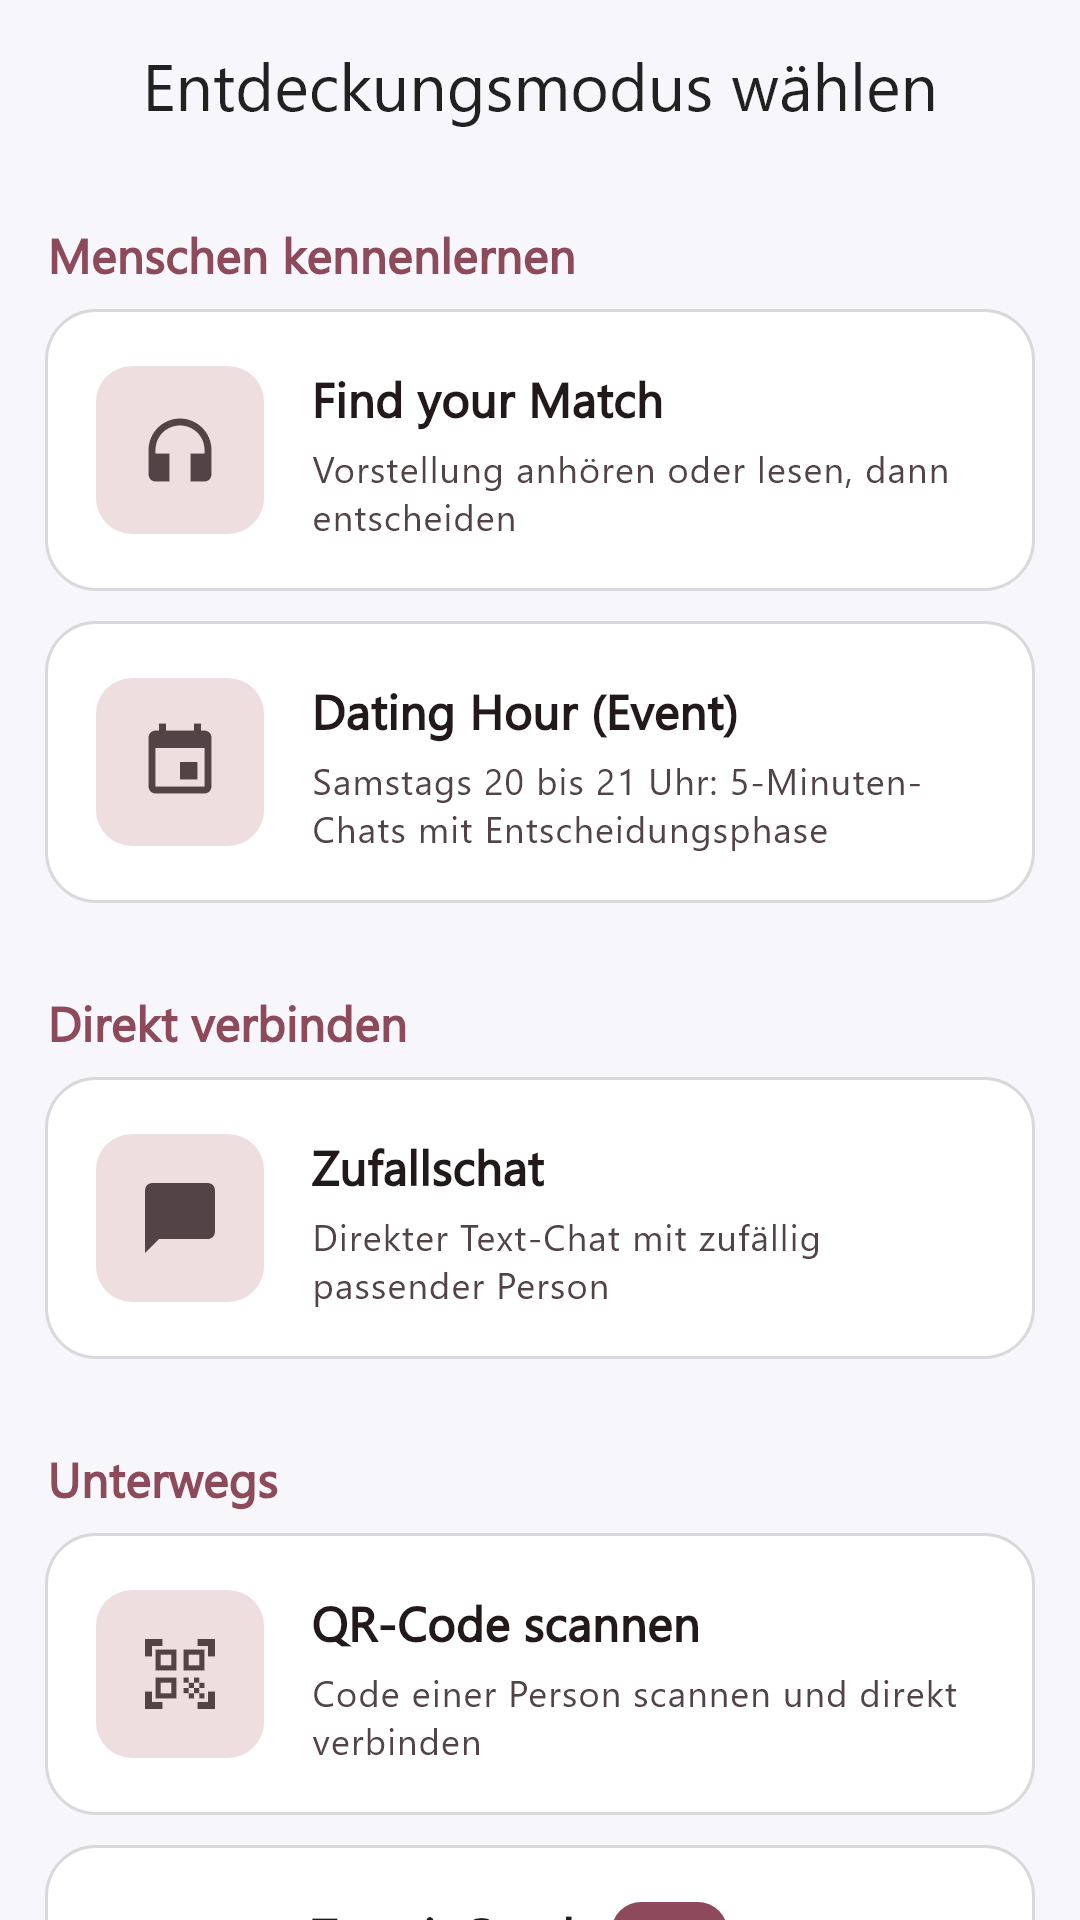
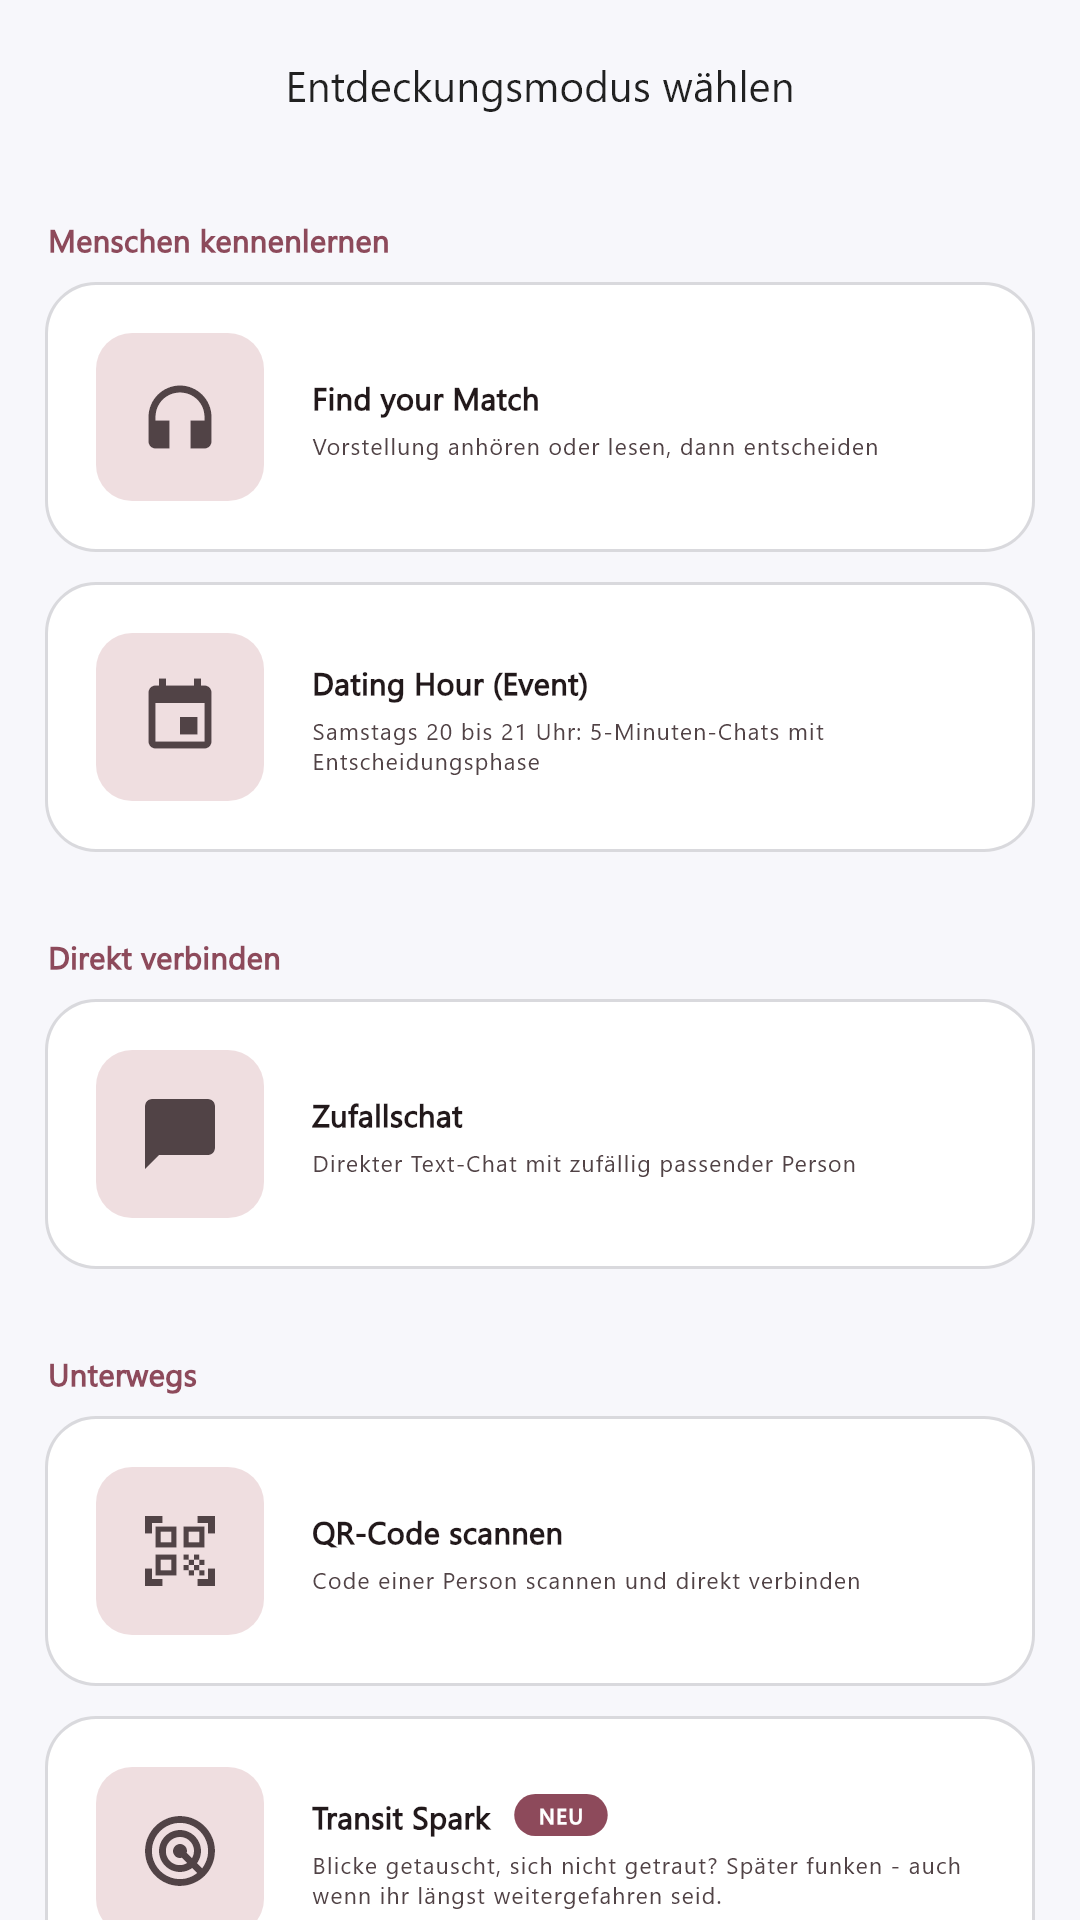
Screenshots: alle Entdecken-Modi sichtbar, Eisbrecher-Fragen statt Dating Hour

diff --git a/test/screenshots/store_v091_shots_test.dart b/test/screenshots/store_v091_shots_test.dart
@@ -16,10 +16,9 @@ import 'package:flutter_localizations/flutter_localizations.dart';
 import 'package:flutter_riverpod/flutter_riverpod.dart';
 import 'package:flutter_test/flutter_test.dart';
 import 'package:shared_preferences/shared_preferences.dart';
-
 import 'package:thestia/providers/user_preferences_provider.dart';
 import 'package:thestia/screens/auth/login_screen.dart';
-import 'package:thestia/screens/dating_hour/dating_hour_how_it_works_screen.dart';
+import 'package:thestia/screens/spice/spice_questions_screen.dart';
 import 'package:thestia/screens/swipe/swipe_mode_selection_screen.dart';
 import 'package:thestia/screens/welcome/welcome_screen.dart';
 import 'package:thestia/services/local_storage.dart';
@@ -146,6 +145,7 @@ Future<void> _pump(
   required String name,
   required Size size,
   required double dpr,
+  double textScale = 1.0,
   Future<void> Function(WidgetTester)? after,
 }) async {
   await tester.runAsync(_loadFontsOnce);
@@ -161,7 +161,14 @@ Future<void> _pump(
     (call) async => null,
   );
 
-  await tester.pumpWidget(_harness(child, prefs));
+  await tester.pumpWidget(
+    MediaQuery(
+      // Nur fuer Screens, die sonst ueber den unteren Rand hinauslaufen
+      // (Entdecken-Liste): echtes UI, kompakter gesetzt.
+      data: MediaQueryData(textScaler: TextScaler.linear(textScale)),
+      child: _harness(child, prefs),
+    ),
+  );
   for (var i = 0; i < 3; i++) {
     await tester.pumpAndSettle(const Duration(milliseconds: 300));
     await tester.runAsync(
@@ -181,6 +188,7 @@ Future<void> _pump(
 void _shot(
   String name,
   Widget Function() build, {
+  double textScale = 1.0,
   Future<void> Function(WidgetTester)? after,
 }) {
   for (final entry in _sizes.entries) {
@@ -192,6 +200,7 @@ void _shot(
         name: name,
         size: entry.value.size,
         dpr: entry.value.dpr,
+        textScale: textScale,
         after: after,
       );
     }, skip: !_enabled);
@@ -212,8 +221,10 @@ void main() {
         }
       });
 
-  // 3) Entdecken: die Modi inkl. Transit Spark.
-  _shot('03_entdecken', () => const SwipeModeSelectionScreen());
+  // 3) Entdecken: ALLE fuenf Modi sichtbar (textScale kompakter gesetzt,
+  //    damit Transit Spark nicht unter den Rand rutscht).
+  _shot('03_entdecken', () => const SwipeModeSelectionScreen(),
+      textScale: 0.64);
 
   // 4) Chat-Hintergrund (NEU in v0.9.1): Muster + eigenes Bild.
   _shot('04_chat_hintergrund', () => Builder(
@@ -242,6 +253,14 @@ void main() {
         ),
       ));
 
-  // 5) Dating Hour: das Event-Feature.
-  _shot('05_dating_hour', () => const DatingHourHowItWorksScreen());
+  // 5) Eisbrecher-Fragen (Spice Questions): das Herzstueck im Chat.
+  //    Erste Kategorie aufgeklappt, damit echte Fragen sichtbar sind.
+  _shot('05_eisbrecher', () => const SpiceQuestionsScreen(matchId: 1),
+      after: (tester) async {
+        final tiles = find.byType(ExpansionTile);
+        if (tester.widgetList(tiles).isNotEmpty) {
+          await tester.tap(tiles.first);
+          await tester.pumpAndSettle(const Duration(milliseconds: 400));
+        }
+      });
 }
